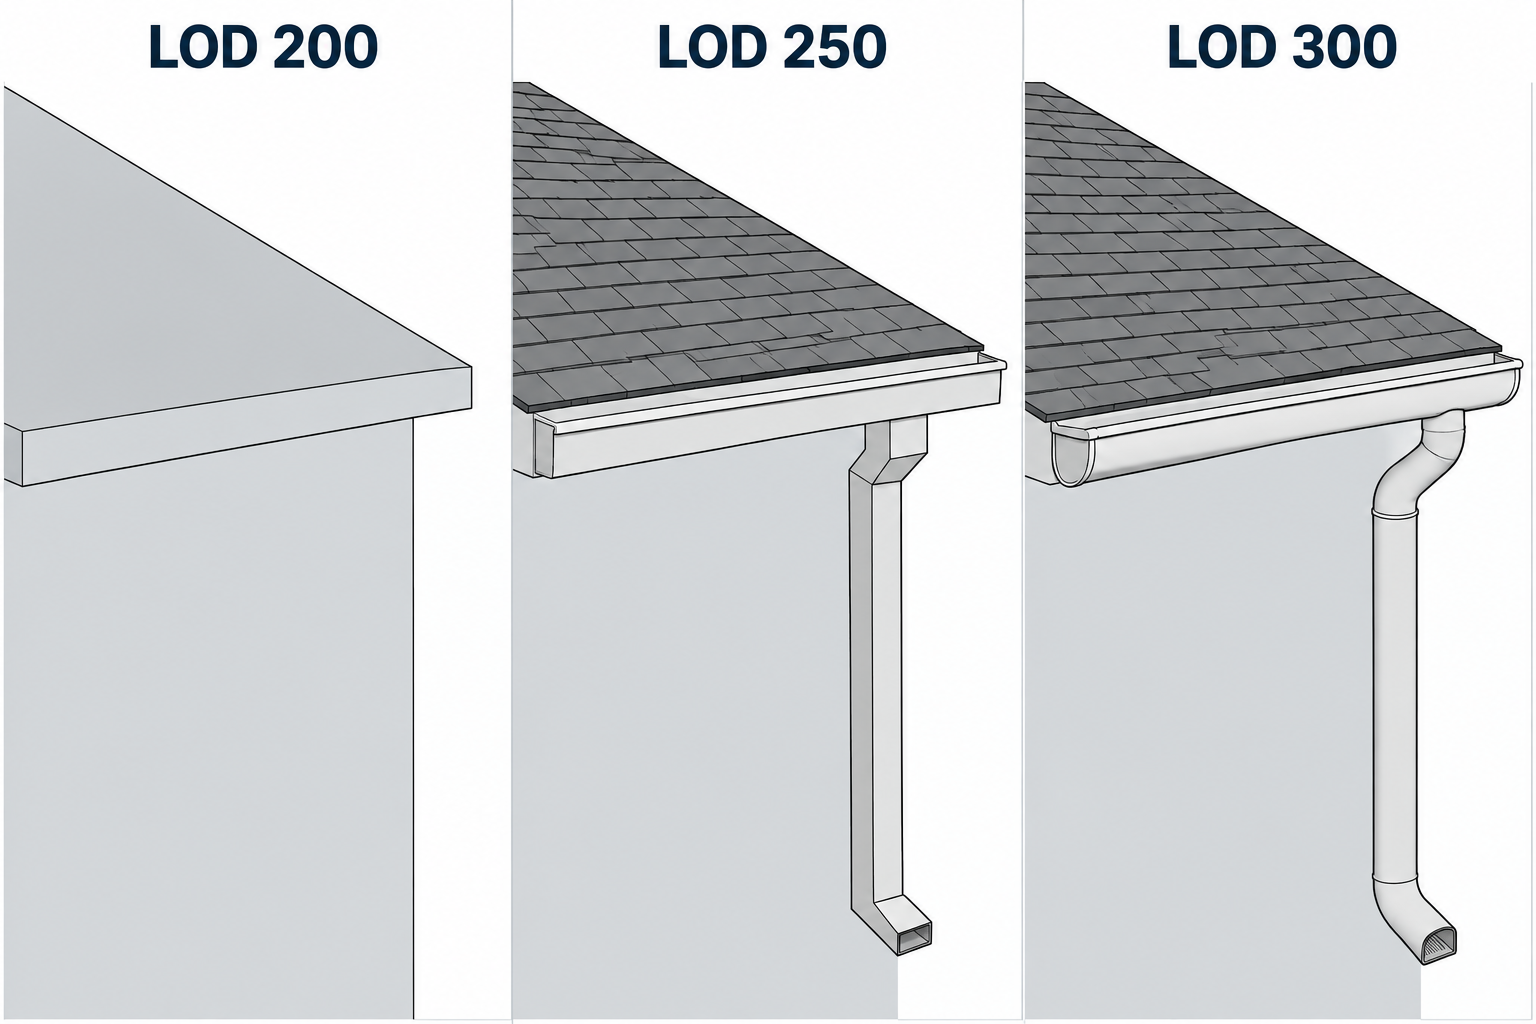
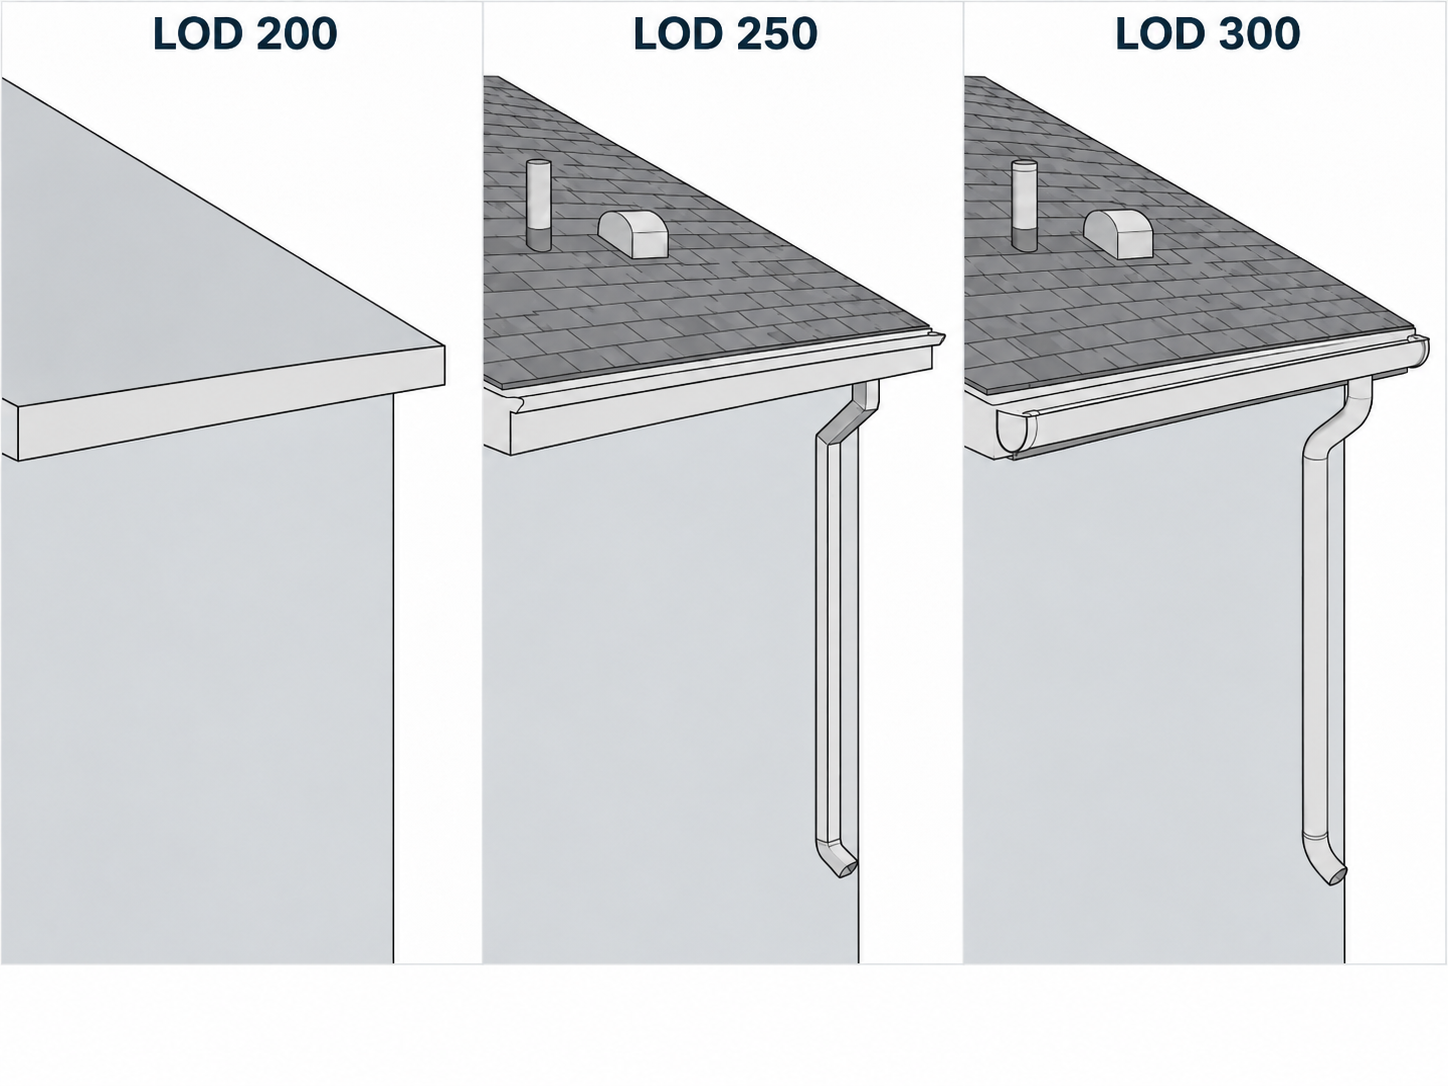
imange and sync update

diff --git a/sync-notion.js b/sync-notion.js
@@ -64,6 +64,14 @@ const SLUGS = {
   'Utilities (Gas/Elec/Water Meters)':                                   'utilities', // alias until Notion title is lowercased
 };
 
+// Fallback lookup: the name before any parenthetical, lowercased.
+// Editing the examples in parentheses in Notion ("Attached Wall Elements (shelves, mirrors)" →
+// "Attached Wall Elements (crown molding, baseboards, vents)") no longer drops the row.
+// Changing the name itself still needs a new SLUGS entry.
+const baseName = s => s.replace(/\s*\(.*$/, '').trim().toLowerCase();
+const SLUGS_BY_BASE = {};
+for (const [title, slug] of Object.entries(SLUGS)) SLUGS_BY_BASE[baseName(title)] = slug;
+
 // ─── Display section config ────────────────────────────────────────────────────
 // Controls section headers and row order in the HTML.
 // The Notion "PPM Plan Type" field is for plan drawing types (different purpose) — not used here.
@@ -137,7 +145,7 @@ async function main() {
     const planItem  = titleProp ? txt(titleProp) : '';
     if (!planItem) continue;
 
-    const slug = SLUGS[planItem];
+    const slug = SLUGS[planItem] ?? SLUGS_BY_BASE[baseName(planItem)];
     if (!slug) { unmapped.push(planItem); continue; }
 
     bySlug[slug] = {
